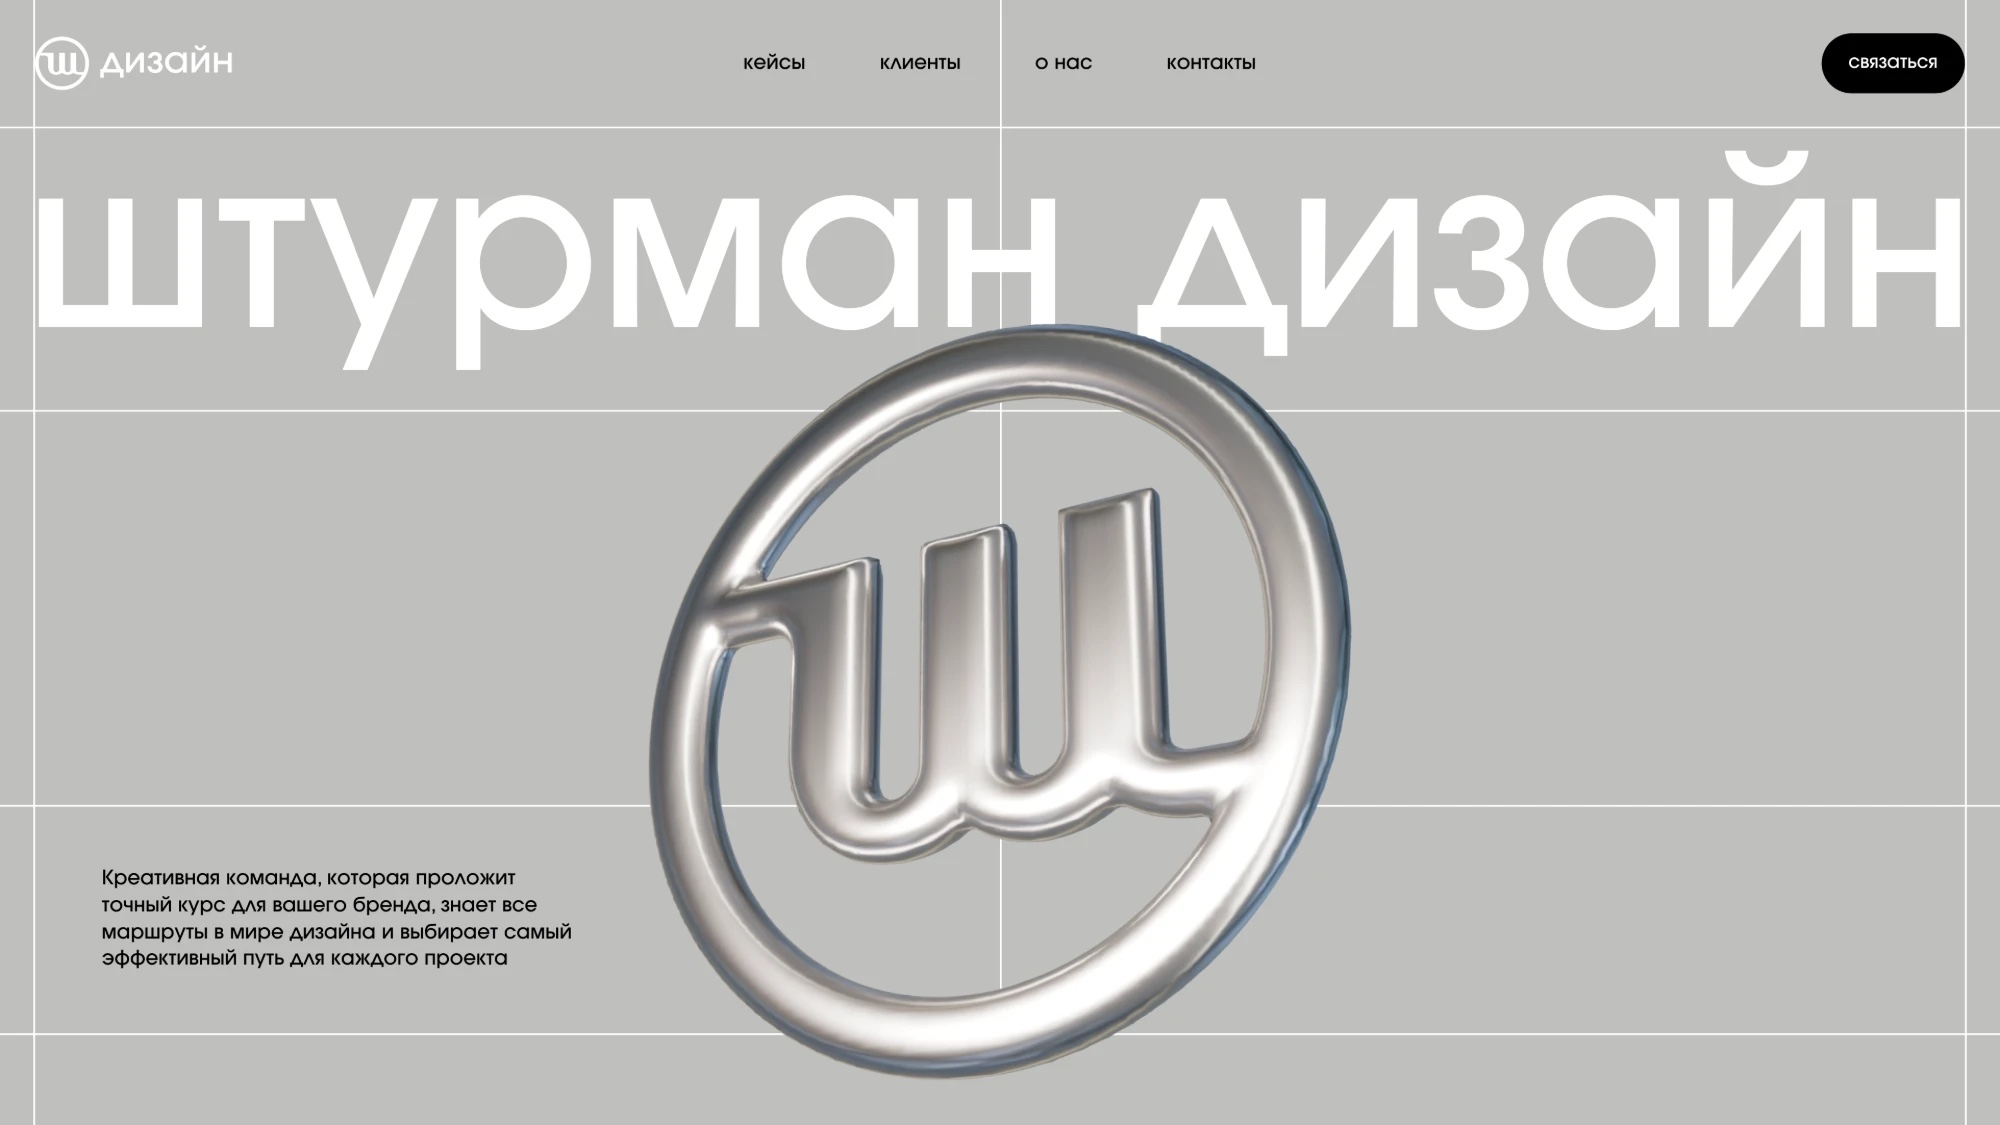
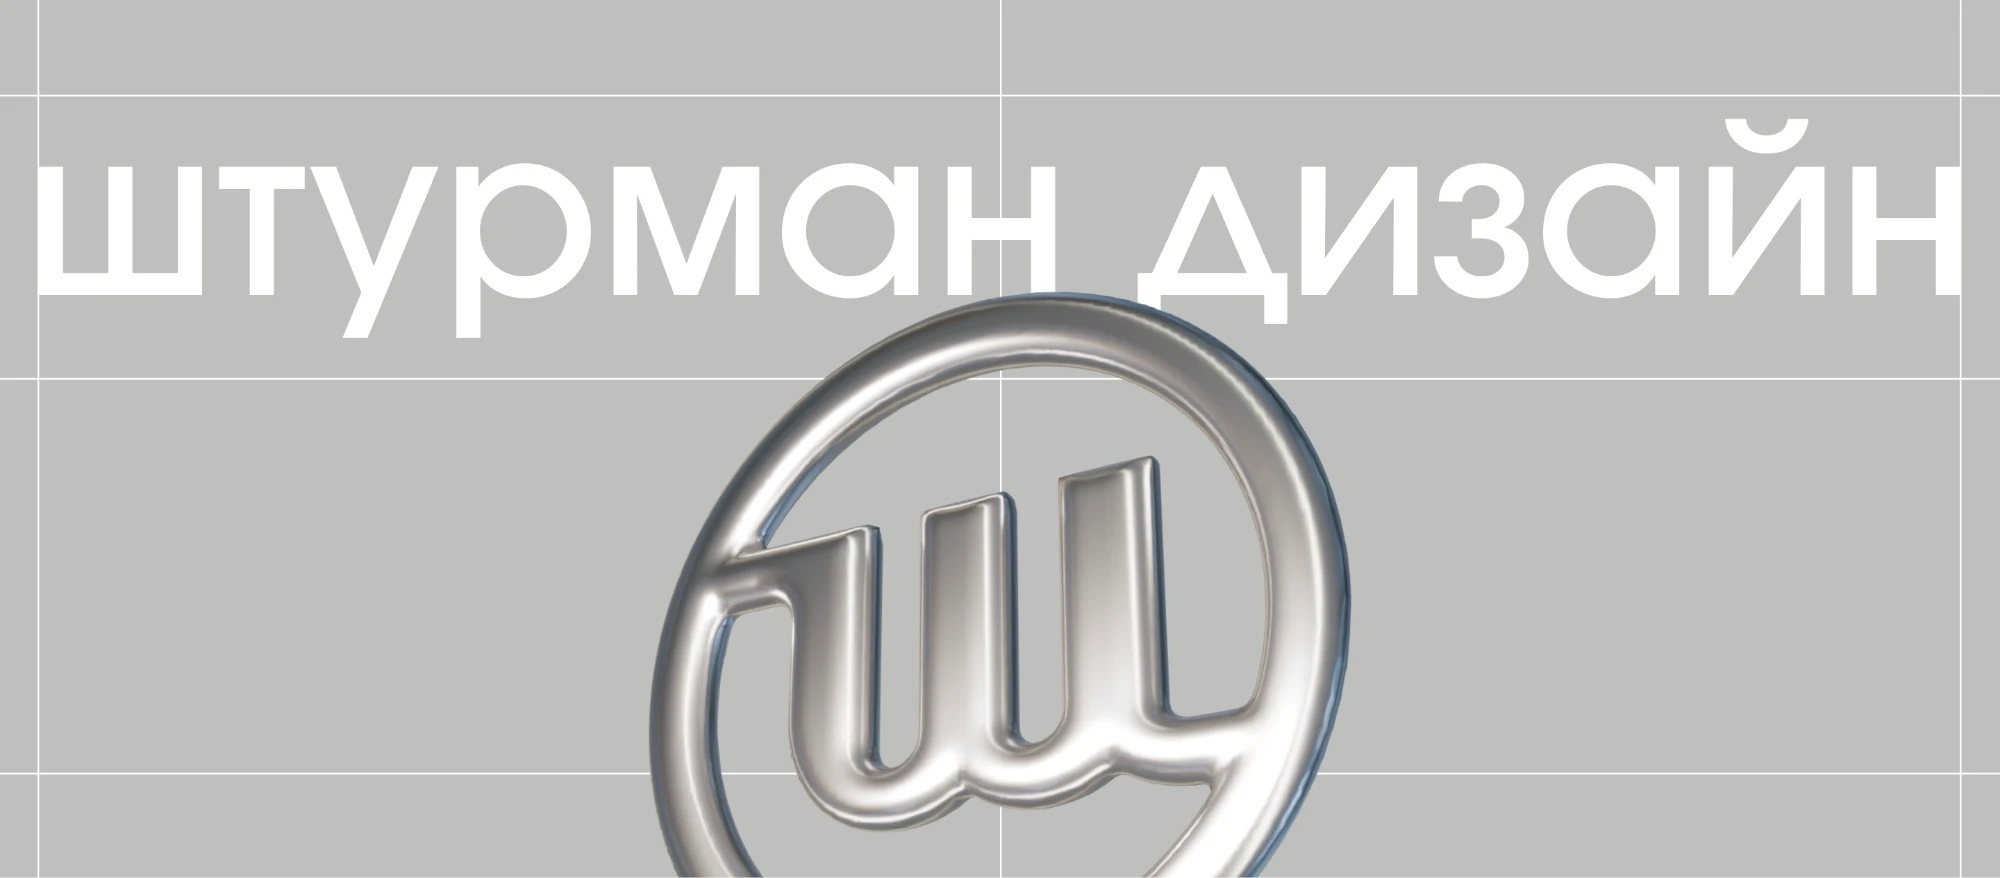
Штурман дизайн: новая обложка кейса, адаптив под телефон и планшет (3D-блок 4:3 на планшете, знак загорается от касания, мемы в ряд)

diff --git a/mark3d.js b/mark3d.js
@@ -19,7 +19,8 @@ const TUNE = {
   spin: 1400,         // длительность полного оборота по нажатию, мс
   size: 0.6,          // высота знака от высоты блока
   drop: 0.1,          // на сколько знак ниже центра (доля высоты блока) — чтобы надпись сверху читалась, как на обложке
-  tall: [0.4, -0.03], // на вертикальном блоке (телефон): высота знака и сдвиг — знак между надписью и подписями
+  tall: [0.42, -0.06],
+  mid: [0.48, 0.12],   // на почти квадратном блоке (планшет, 4:3): высота знака и сдвиг // на вертикальном блоке (телефон): высота знака и сдвиг — знак между надписью и подписями
   metal: '#F4F4F2',   // цвет серебра
   rough: 0.16,        // шероховатость: меньше — зеркальнее
   lime: '#B3F843',    // цвет бликов подсветки
@@ -99,7 +100,7 @@ export async function mountMark(box){
     renderer.setSize(w, h, false);
     camera.aspect = w / h;
     // знак занимает TUNE.size высоты блока, но не вылезает по ширине на узком экране
-    const [k, drop] = camera.aspect < 1 ? TUNE.tall : [TUNE.size, TUNE.drop];
+    const [k, drop] = camera.aspect < 1 ? TUNE.tall : camera.aspect < 1.5 ? TUNE.mid : [TUNE.size, TUNE.drop];
     const fit = 2 / (2 * Math.tan(THREE.MathUtils.degToRad(camera.fov / 2)) * k);
     camera.position.z = Math.max(fit, fit / Math.min(1, camera.aspect * 1.05));
     camera.updateProjectionMatrix();
@@ -120,6 +121,11 @@ export async function mountMark(box){
   // на телефоне — вслед за пальцем по самому блоку (вертикальная прокрутка не мешает)
   box.addEventListener('pointermove', e => { if (touch && e.pointerType !== 'mouse') aim(e.clientX, e.clientY); }, { passive: true });
   box.addEventListener('click', () => { spin = { t0: performance.now(), from: pivot.rotation.y }; });
+  // на телефоне направлений справа нет — знак загорается, пока палец на блоке
+  if (touch) {
+    box.addEventListener('pointerdown', () => box.classList.add('hot'), { passive: true });
+    ['pointerup', 'pointercancel', 'pointerleave'].forEach(t => box.addEventListener(t, () => setTimeout(() => box.classList.remove('hot'), 600), { passive: true }));
+  }
 
   const still = matchMedia('(prefers-reduced-motion: reduce)').matches;
   function draw(now = performance.now()){

diff --git a/style.css b/style.css
@@ -1503,6 +1503,12 @@ button.article{width:100%;text-align:left;font:inherit;color:inherit;background:
   .m3d-pill{top:auto;bottom:calc(100% - var(--gb) + 14px);left:calc(var(--gx) + 12px)}
   .m3d-dirs{display:none}
 }
+@media (min-width:761px) and (max-width:1100px){
+  .m3d{aspect-ratio:4/3;--gt:8%;--gb:92%}
+  .m3d-slogan{top:50%;max-width:9.5em}
+  .m3d-pill{top:70%}
+  .m3d-dirs{top:46%;font-size:clamp(22px,3.4vw,32px)}
+}
 @media (prefers-reduced-motion:reduce){.m3d-dirs li{transition:none}}
 /* приписка про NDA стоит сразу под названиями компаний, чтобы было видно, что она про них;
    строка с описанием клиента при наведении — ниже нее */
@@ -1520,6 +1526,12 @@ p,li,figcaption,dd,dt,blockquote{text-wrap:pretty}
   .case-sheet{padding:10px;border-radius:4px}
   .case-sheet .camp-row:not(.collage){flex-direction:column;overflow:visible;scroll-snap-type:none}
   .case-sheet .camp-row:not(.collage)>.camp-shot{flex:none;width:100%;height:auto}
+}
+.case-sheet.narrow{padding:0;width:calc(66.67% + clamp(16px,2vw,28px) / 3);margin-left:auto}
+@media (max-width:760px){
+  .case-sheet.narrow{width:auto}
+  .case-sheet.keep .camp-row:not(.collage){flex-direction:row}
+  .case-sheet.keep .camp-row:not(.collage)>.camp-shot{flex:var(--ar) 1 0;width:auto}
 }
 
 /* превью, которое нужно показать целиком (cardRatio): карточка в пропорциях ролика, без приближения */

diff --git a/app.js b/app.js
@@ -1829,7 +1829,8 @@ function galleryItem(x){
   if (x && x.logos) return logoWallHTML(x.logos);
   if (x && x.mark3d) return mark3dHTML(x.mark3d);
   // { sheet: [[…], […]], bg } — ряды макетов на серой подложке (светлые картинки не сливаются с белым фоном)
-  if (x && x.sheet) return sheetHTML(x.sheet, x.bg);
+  // cls: 'keep' — ряд не складывается в столбик на телефоне, 'narrow' — без подложки, в правых двух третях
+  if (x && x.sheet) return sheetHTML(x.sheet, x.bg, x.cls);
   // { colors } — палитра с копированием кода, как в brandkit; { slides } — презентация-листалка
   if (x && x.colors) return brandkitHTML({ colors: x.colors });
   if (x && x.slides) return campSlides(x);
